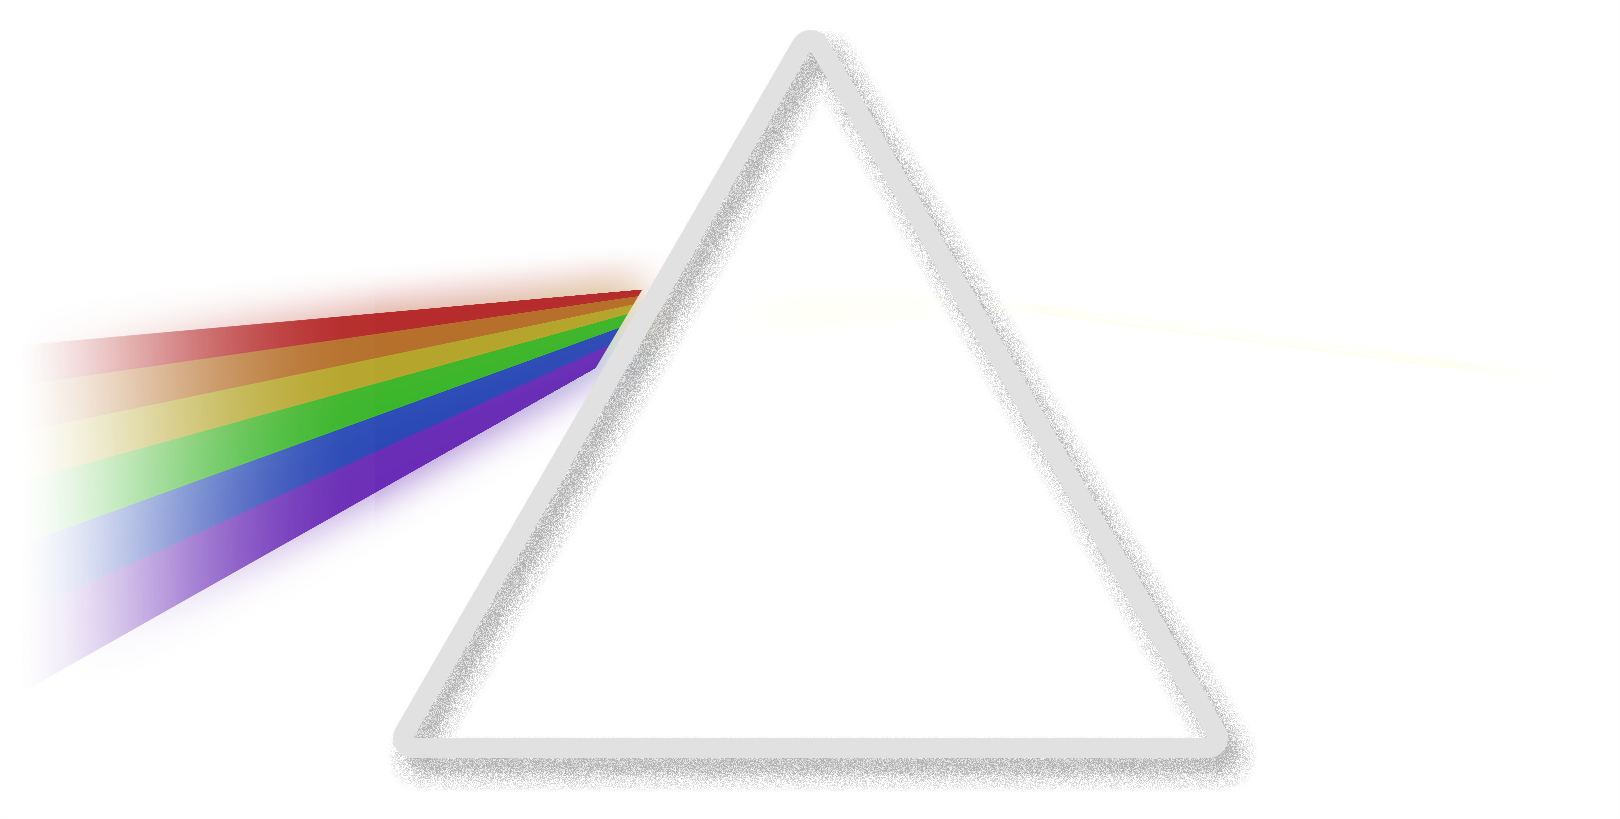
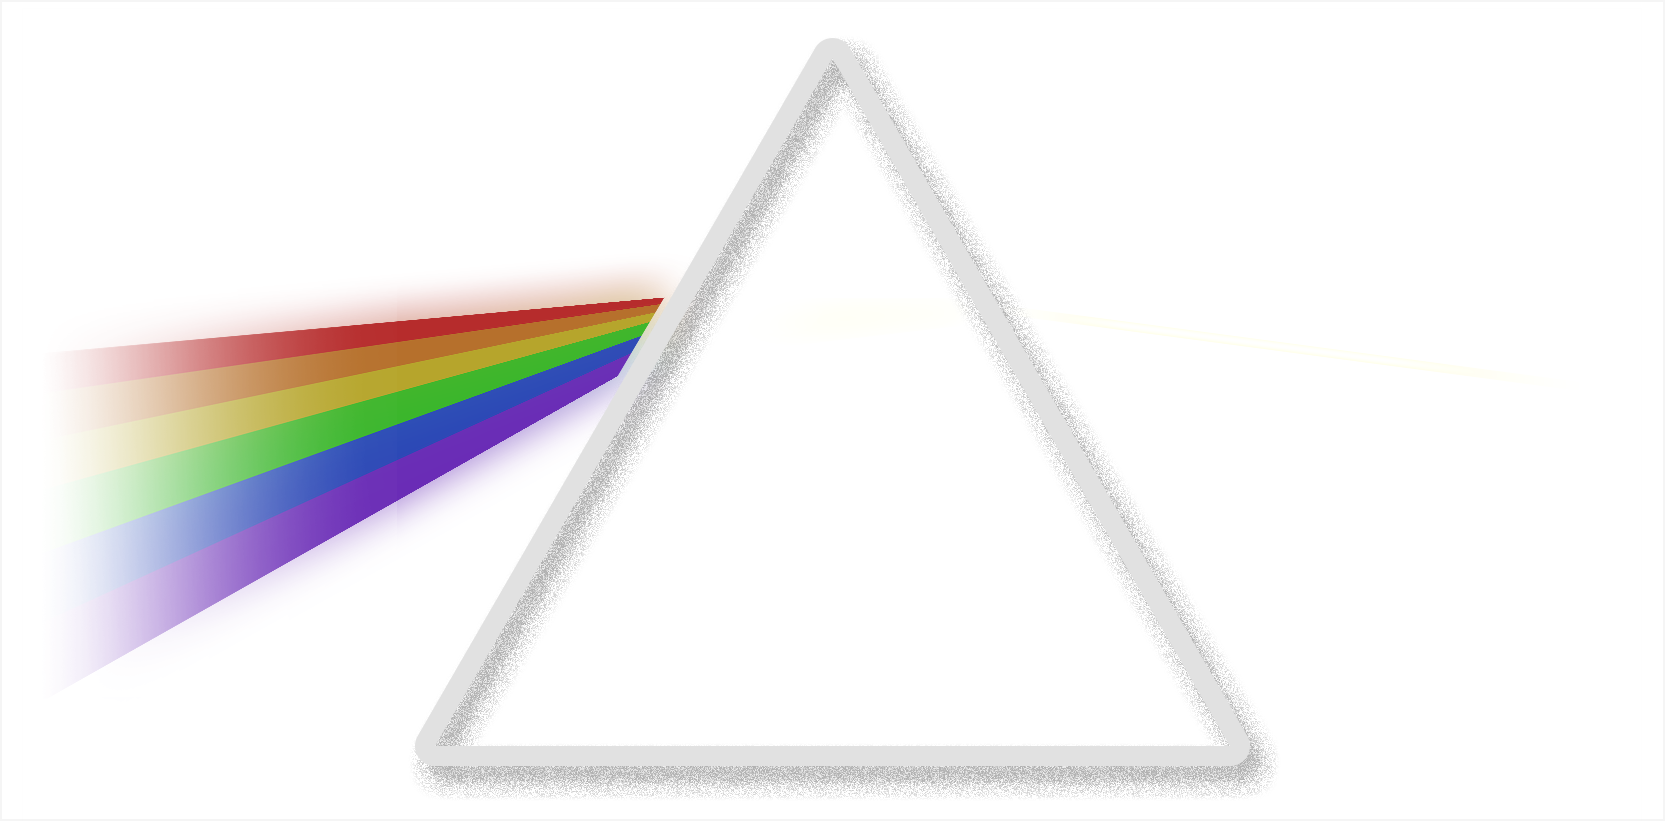
Fix Twitter URL (#14)
* Fix Twitter URL

* Add typeform to our website

* Fix text

* Fix logo and prism

* Put our saying everywhere

diff --git a/truestory/templates/index.html b/truestory/templates/index.html
@@ -51,7 +51,7 @@
         <img id="prism" src="{{ url_for('static', filename='img/prism.png') }}" class="img-fluid" alt="Bias Prism">
         <h1 class="mx-auto py-2">TrueStory</h1>
         <h2 class="text-white-80 mx-auto mt-2 mb-5 text-uppercase font-weight-bolder">
-          See both sides of the same story
+          Be your own journalist
         </h2>
         <a href="#about" class="btn ts-button js-scroll-trigger mt-5">Discover more</a>
       </div>
@@ -63,7 +63,7 @@
     <div class="container">
       <div class="row">
         <div class="col-lg-8 mx-auto">
-          <h2 class="text-white mb-4">Average out the bias, seek the truth.</h2>
+          <h2 class="text-white mb-4">Average out the bias, seek the truth</h2>
           <p class="text-white-80">
             We feel compelled to avoid the <em>bias</em> and seek idealistic objective news,
             even though we all know this is rare nowadays. But what if these conflicting passions
@@ -135,12 +135,17 @@
           </div>
 
           <br>
-          <p class="text-white-50">
+          <p class="text-white-80">
             <em>
               <small class="font-weight-lighter">
                 No spam or marketing messages, just letting you know when our product is ready for you.
               </small>
             </em>
+          </p>
+
+          <br>
+          <p>
+            {% include "_typeform.html" %}
           </p>
         </div>
       </div>
@@ -151,7 +156,7 @@
   <section class="contact-section bg-black">
     <div class="container">
       <div class="social d-flex justify-content-center">
-        <a href="https://twitter.com/one_truestory" target="_blank" class="mx-2">
+        <a href="https://twitter.com/truestoryone" target="_blank" class="mx-2">
           <i class="fab fa-twitter"></i>
         </a>
         <a href="https://www.facebook.com/truestory.one" target="_blank" class="mx-2">

diff --git a/truestory/templates/base.html b/truestory/templates/base.html
@@ -4,12 +4,12 @@
     <!-- Required meta tags and title -->
     <meta charset="utf-8">
     <meta name="viewport" content="width=device-width, initial-scale=1, shrink-to-fit=no">
-    <meta name="description" content="Get both sides of news.">
+    <meta name="description" content="Be your own journalist.">
     <meta name="author" content="SavvyBit">
 
     <!-- Open Graph protocol -->
     <meta property="og:title" content="TrueStory">
-    <meta property="og:description" content="See both sides of the same story.">
+    <meta property="og:description" content="Be your own journalist.">
     <meta property="og:type" content="website">
     <meta property="og:site_name" content="TrueStory">
     <meta property="og:url" content="{{ site }}">

diff --git a/truestory/templates/_typeform.html b/truestory/templates/_typeform.html
@@ -1,0 +1,25 @@
+<style>
+  .typeform-share {
+    font-size: 1.3rem;
+    text-decoration: underline;
+  }
+</style>
+
+<a class="typeform-share link" href="https://truestory.typeform.com/to/Xo5aUF"
+ data-mode="drawer_left" data-submit-close-delay="1" target="_blank">
+  Your opinion
+</a>
+
+<script>
+  (function() {
+    var qs,js,q,s,d=document, gi=d.getElementById, ce=d.createElement;
+    var gt=d.getElementsByTagName, id="typef_orm_share", b="https://embed.typeform.com/";
+    if(!gi.call(d,id)) {
+      js=ce.call(d,"script");
+      js.id=id;
+      js.src=b+"embed.js";
+      q=gt.call(d,"script")[0];
+      q.parentNode.insertBefore(js,q);
+    }
+  })();
+</script>

diff --git a/setup.py b/setup.py
@@ -49,7 +49,7 @@ def get_requirements(path="requirements.txt"):
 setup(
     name="truestory",
     version="0.2.4",
-    description="Get both sides of news.",
+    description="Be your own journalist.",
     long_description=read("README.md"),
     url="https://github.com/SavvyBit/TrueStory",
     license="MIT",

diff --git a/README.md b/README.md
@@ -1,3 +1,3 @@
 # TrueStory
 
-Get both sides of news.
+Be your own journalist.
